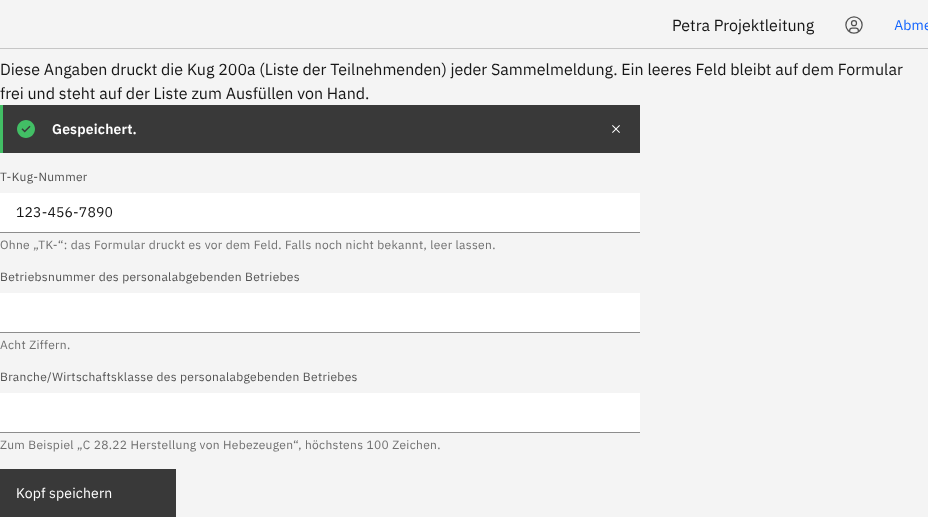
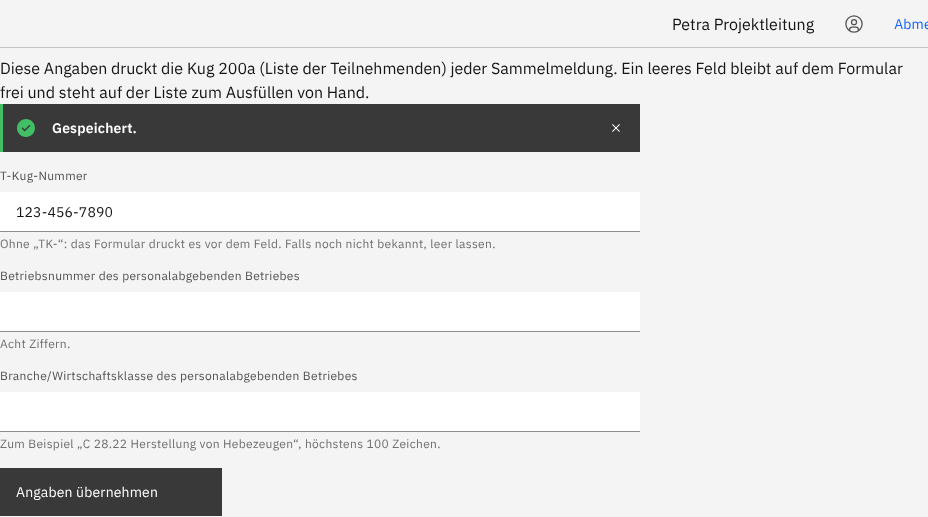
fix(web): the header's button reads "Angaben übernehmen"; e2e settings retry a stale override
"Kopf speichern" matched the setup tab's "Speichern" in the older specs. Both batch specs
write the project's override in parallel and now read its version again on a 409.

Claude-Session: https://claude.ai/code/session_01F952nfcopnq1Zjrr24ejCU

diff --git a/apps/web/e2e/kug200a.spec.ts b/apps/web/e2e/kug200a.spec.ts
@@ -124,22 +124,34 @@ async function acceptedScan(api: APIRequestContext, baseURL: string, participati
   );
 }
 
-/** The Agentur's confirmed batch channel, as the PL records it (an Agentur-scoped setting). */
+/**
+ * The Agentur's confirmed batch channel, as the PL records it (an Agentur-scoped setting). Other
+ * specs write the project's override in parallel: a stale version (409) reads it again.
+ */
 async function agenturSetting(api: APIRequestContext, baseURL: string) {
-  const config = (await (await ok(api.get(`/api/v1/projects/${projectId}/config`))).json()) as {
-    override: { version: number };
-  };
-  // A retry or another spec finds the setting already recorded (`override_unchanged`).
-  const res = await api.put(`/api/v1/projects/${projectId}/config/agentur-settings/${agenturKey}`, {
-    headers: { Origin: baseURL },
-    data: {
-      expectedVersion: config.override.version,
-      settings: { asu_registration: { batchSubmissionChannel: "scan_email" } },
-      source: "email_agentur",
-      confirmedOn: berlin().iso,
-    },
-  });
-  expect([200, 422]).toContain(res.status());
+  for (let attempt = 0; attempt < 5; attempt++) {
+    const config = (await (await ok(api.get(`/api/v1/projects/${projectId}/config`))).json()) as {
+      override: { version: number };
+    };
+    // A retry finds the setting already recorded (`override_unchanged`).
+    const res = await api.put(
+      `/api/v1/projects/${projectId}/config/agentur-settings/${agenturKey}`,
+      {
+        headers: { Origin: baseURL },
+        data: {
+          expectedVersion: config.override.version,
+          settings: { asu_registration: { batchSubmissionChannel: "scan_email" } },
+          source: "email_agentur",
+          confirmedOn: berlin().iso,
+        },
+      },
+    );
+    if (res.status() !== 409) {
+      expect([200, 422]).toContain(res.status());
+      return;
+    }
+  }
+  throw new Error("The project's override kept changing");
 }
 
 test("slice 6-5a-2: a batch's Kug 200a and scans, with the checklist before printing", async ({
@@ -163,10 +175,10 @@ test("slice 6-5a-2: a batch's Kug 200a and scans, with the checklist before prin
   await page.goto(`/projects/${projectId}?tab=setup`);
   const header = page.getByRole("region", { name: "Kopf der Kug 200a" });
   await header.getByLabel("T-Kug-Nummer").fill("TK-123");
-  await header.getByRole("button", { name: "Kopf speichern" }).click();
+  await header.getByRole("button", { name: "Angaben übernehmen" }).click();
   await expect(header).toContainText("Ohne „TK-“ eingeben: das Formular druckt es schon.");
   await header.getByLabel("T-Kug-Nummer").fill("123-456-7890");
-  await header.getByRole("button", { name: "Kopf speichern" }).click();
+  await header.getByRole("button", { name: "Angaben übernehmen" }).click();
   await expect(header).toContainText("Gespeichert.");
   await expectAccessible(page);
   await header.screenshot({ path: test.info().outputPath("1-header.png") });

diff --git a/apps/web/src/kug200a-header.test.tsx b/apps/web/src/kug200a-header.test.tsx
@@ -43,7 +43,7 @@ describe("the Kug 200a's header", () => {
     await userEvent.clear(
       section.getByLabelText("Betriebsnummer des personalabgebenden Betriebes"),
     );
-    await userEvent.click(section.getByRole("button", { name: "Kopf speichern" }));
+    await userEvent.click(section.getByRole("button", { name: "Angaben übernehmen" }));
     await waitFor(() =>
       expect(calls).toContainEqual({
         key: `PATCH ${path}`,
@@ -62,10 +62,10 @@ describe("the Kug 200a's header", () => {
     });
     renderApp(`/projects/${project.id}?tab=setup`, api);
     const section = await openSection();
-    await userEvent.click(section.getByRole("button", { name: "Kopf speichern" }));
+    await userEvent.click(section.getByRole("button", { name: "Angaben übernehmen" }));
     expect(await section.findByText("Nichts geändert.")).toBeInTheDocument();
     await userEvent.type(section.getByLabelText("T-Kug-Nummer"), "TK-1");
-    await userEvent.click(section.getByRole("button", { name: "Kopf speichern" }));
+    await userEvent.click(section.getByRole("button", { name: "Angaben übernehmen" }));
     expect(
       await section.findByText("Ohne „TK-“ eingeben: das Formular druckt es schon."),
     ).toBeInTheDocument();
@@ -76,7 +76,7 @@ describe("the Kug 200a's header", () => {
     renderApp(`/projects/${project.id}?tab=setup`, api);
     const section = await openSection();
     await userEvent.type(section.getByLabelText("T-Kug-Nummer"), "1");
-    await userEvent.click(section.getByRole("button", { name: "Kopf speichern" }));
+    await userEvent.click(section.getByRole("button", { name: "Angaben übernehmen" }));
     expect(
       await section.findByText("Die Angaben konnten nicht gespeichert werden."),
     ).toBeInTheDocument();
@@ -90,7 +90,7 @@ describe("the Kug 200a's header", () => {
     const { api } = setup({}, readOnly);
     renderApp(`/projects/${project.id}?tab=setup`, api);
     const section = await openSection();
-    expect(section.queryByRole("button", { name: "Kopf speichern" })).toBeNull();
+    expect(section.queryByRole("button", { name: "Angaben übernehmen" })).toBeNull();
     expect(section.getByText("87654321")).toBeInTheDocument();
     expect(section.getAllByText("nicht erfasst")).toHaveLength(2);
   });

diff --git a/apps/web/e2e/kug200b-batches.spec.ts b/apps/web/e2e/kug200b-batches.spec.ts
@@ -111,22 +111,34 @@ async function readyParticipation(lastName: string) {
   return participationId;
 }
 
-/** The Agentur's confirmed batch channel, as the PL records it (an Agentur-scoped setting). */
+/**
+ * The Agentur's confirmed batch channel, as the PL records it (an Agentur-scoped setting). Other
+ * specs write the project's override in parallel: a stale version (409) reads it again.
+ */
 async function agenturSetting(api: APIRequestContext, baseURL: string) {
-  const config = (await (await ok(api.get(`/api/v1/projects/${projectId}/config`))).json()) as {
-    override: { version: number };
-  };
-  // A retry finds the setting already recorded (`override_unchanged`).
-  const res = await api.put(`/api/v1/projects/${projectId}/config/agentur-settings/${agenturKey}`, {
-    headers: { Origin: baseURL },
-    data: {
-      expectedVersion: config.override.version,
-      settings: { asu_registration: { batchSubmissionChannel: "scan_email" } },
-      source: "email_agentur",
-      confirmedOn: berlin().iso,
-    },
-  });
-  expect([200, 422]).toContain(res.status());
+  for (let attempt = 0; attempt < 5; attempt++) {
+    const config = (await (await ok(api.get(`/api/v1/projects/${projectId}/config`))).json()) as {
+      override: { version: number };
+    };
+    // A retry finds the setting already recorded (`override_unchanged`).
+    const res = await api.put(
+      `/api/v1/projects/${projectId}/config/agentur-settings/${agenturKey}`,
+      {
+        headers: { Origin: baseURL },
+        data: {
+          expectedVersion: config.override.version,
+          settings: { asu_registration: { batchSubmissionChannel: "scan_email" } },
+          source: "email_agentur",
+          confirmedOn: berlin().iso,
+        },
+      },
+    );
+    if (res.status() !== 409) {
+      expect([200, 422]).toContain(res.status());
+      return;
+    }
+  }
+  throw new Error("The project's override kept changing");
 }
 
 test("slice 6-5a-1: a Kug 200b batch from building to the Agentur's confirmation", async ({
